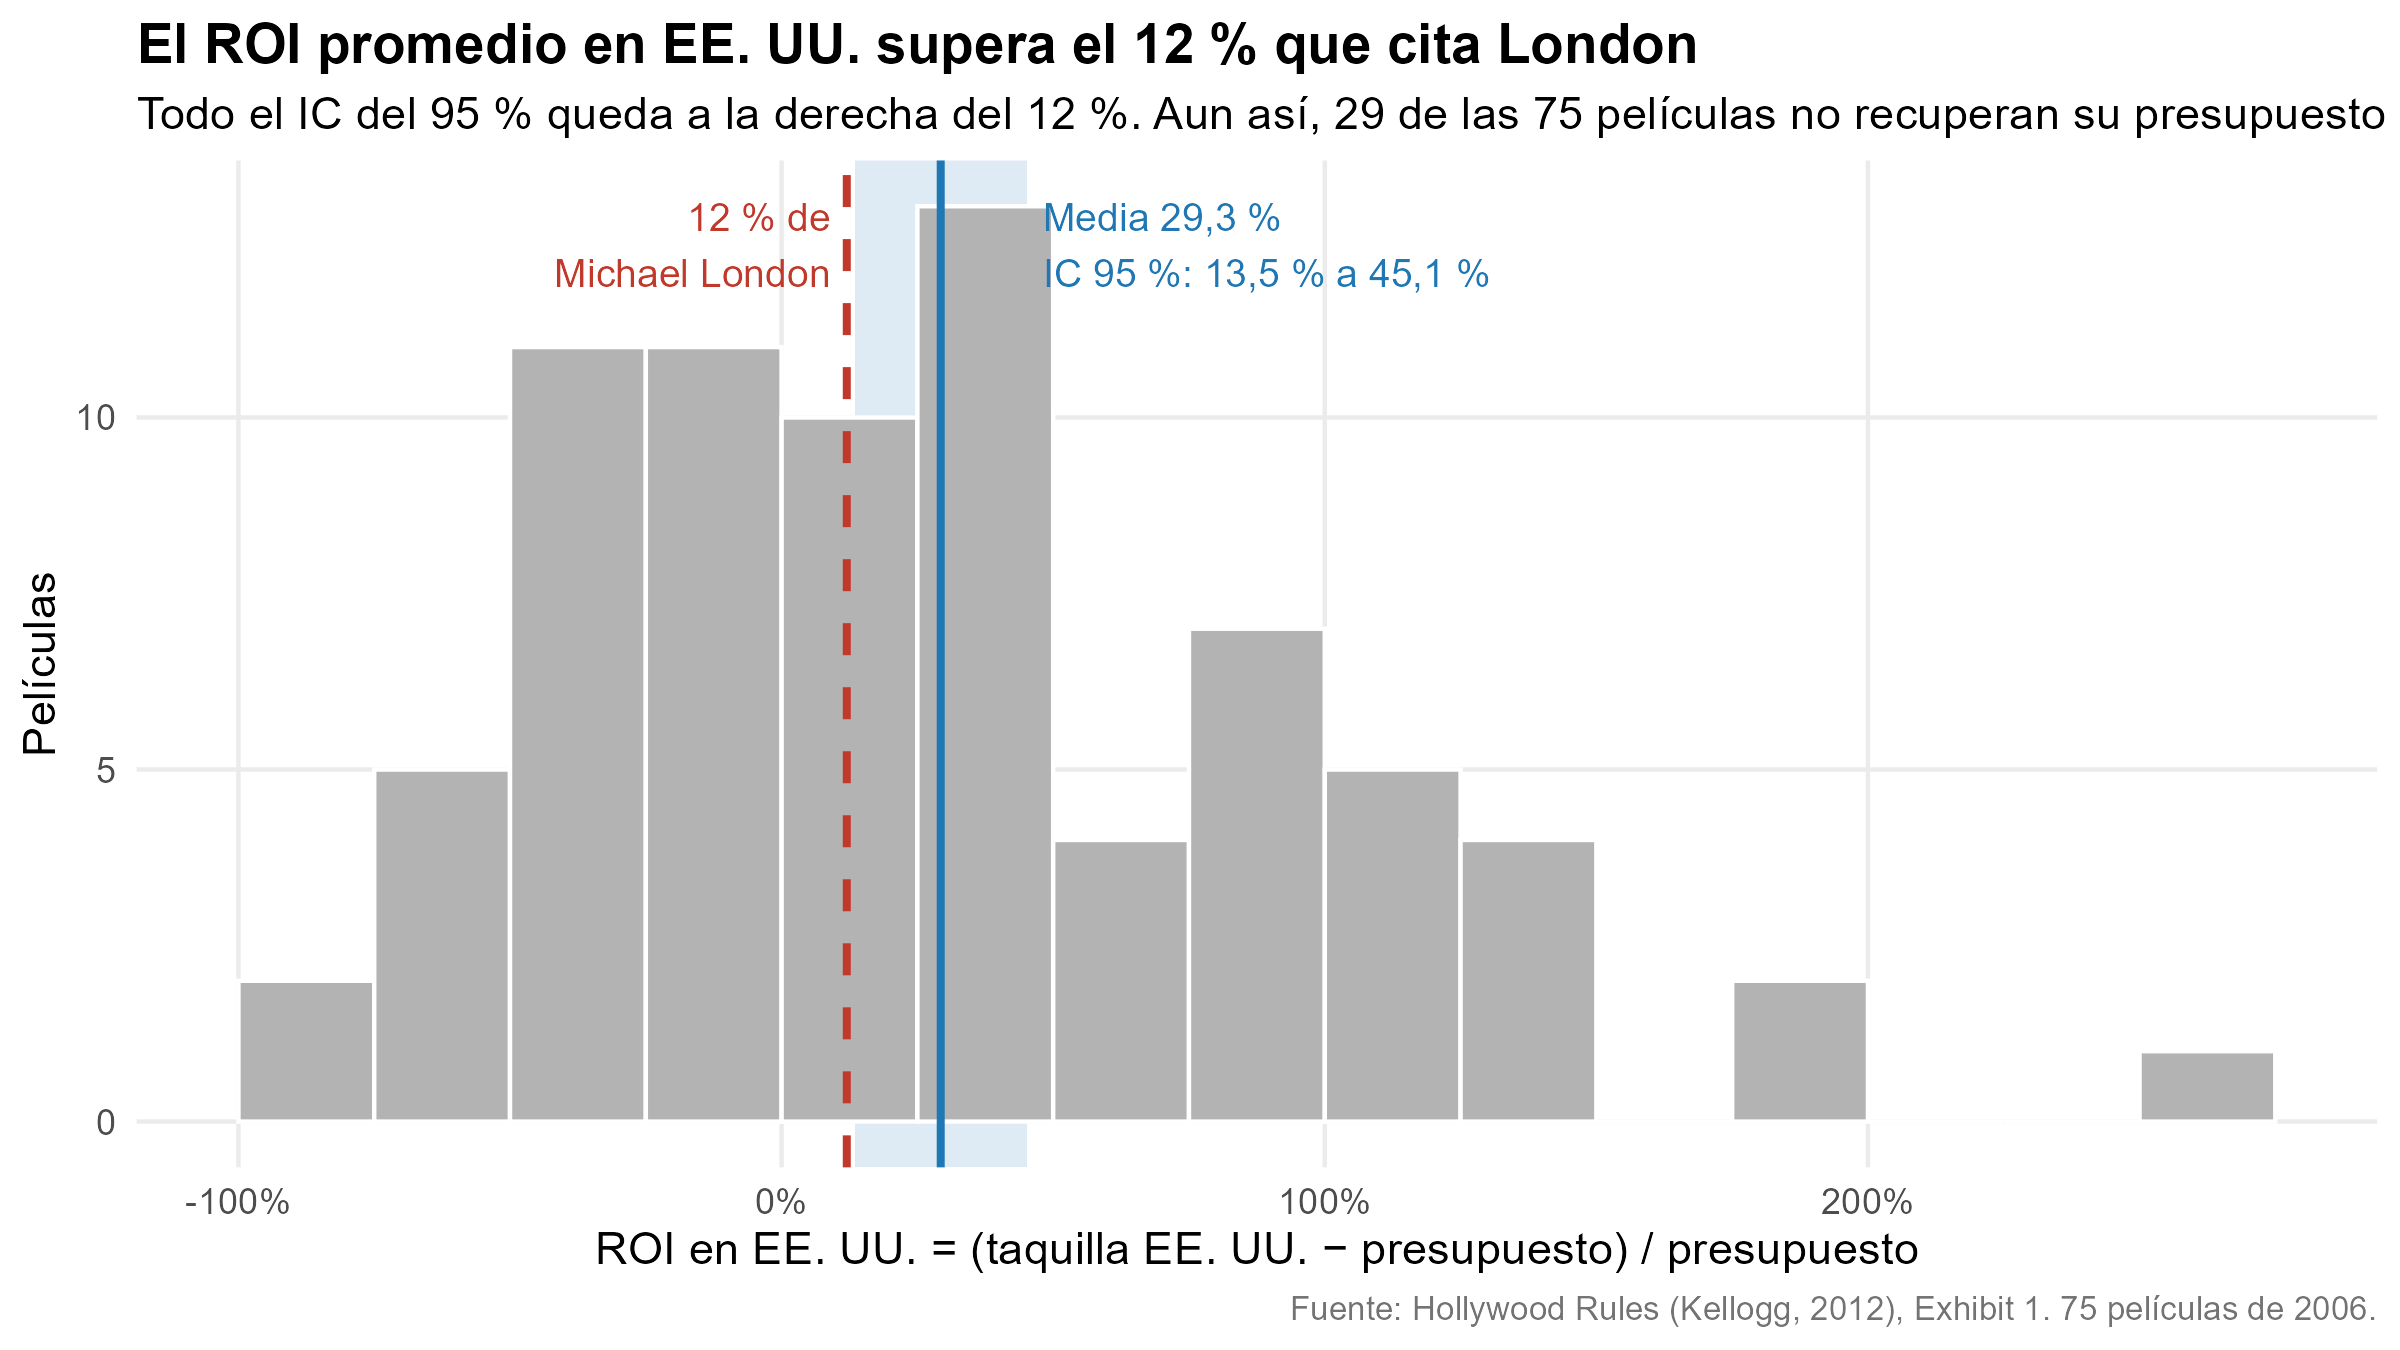
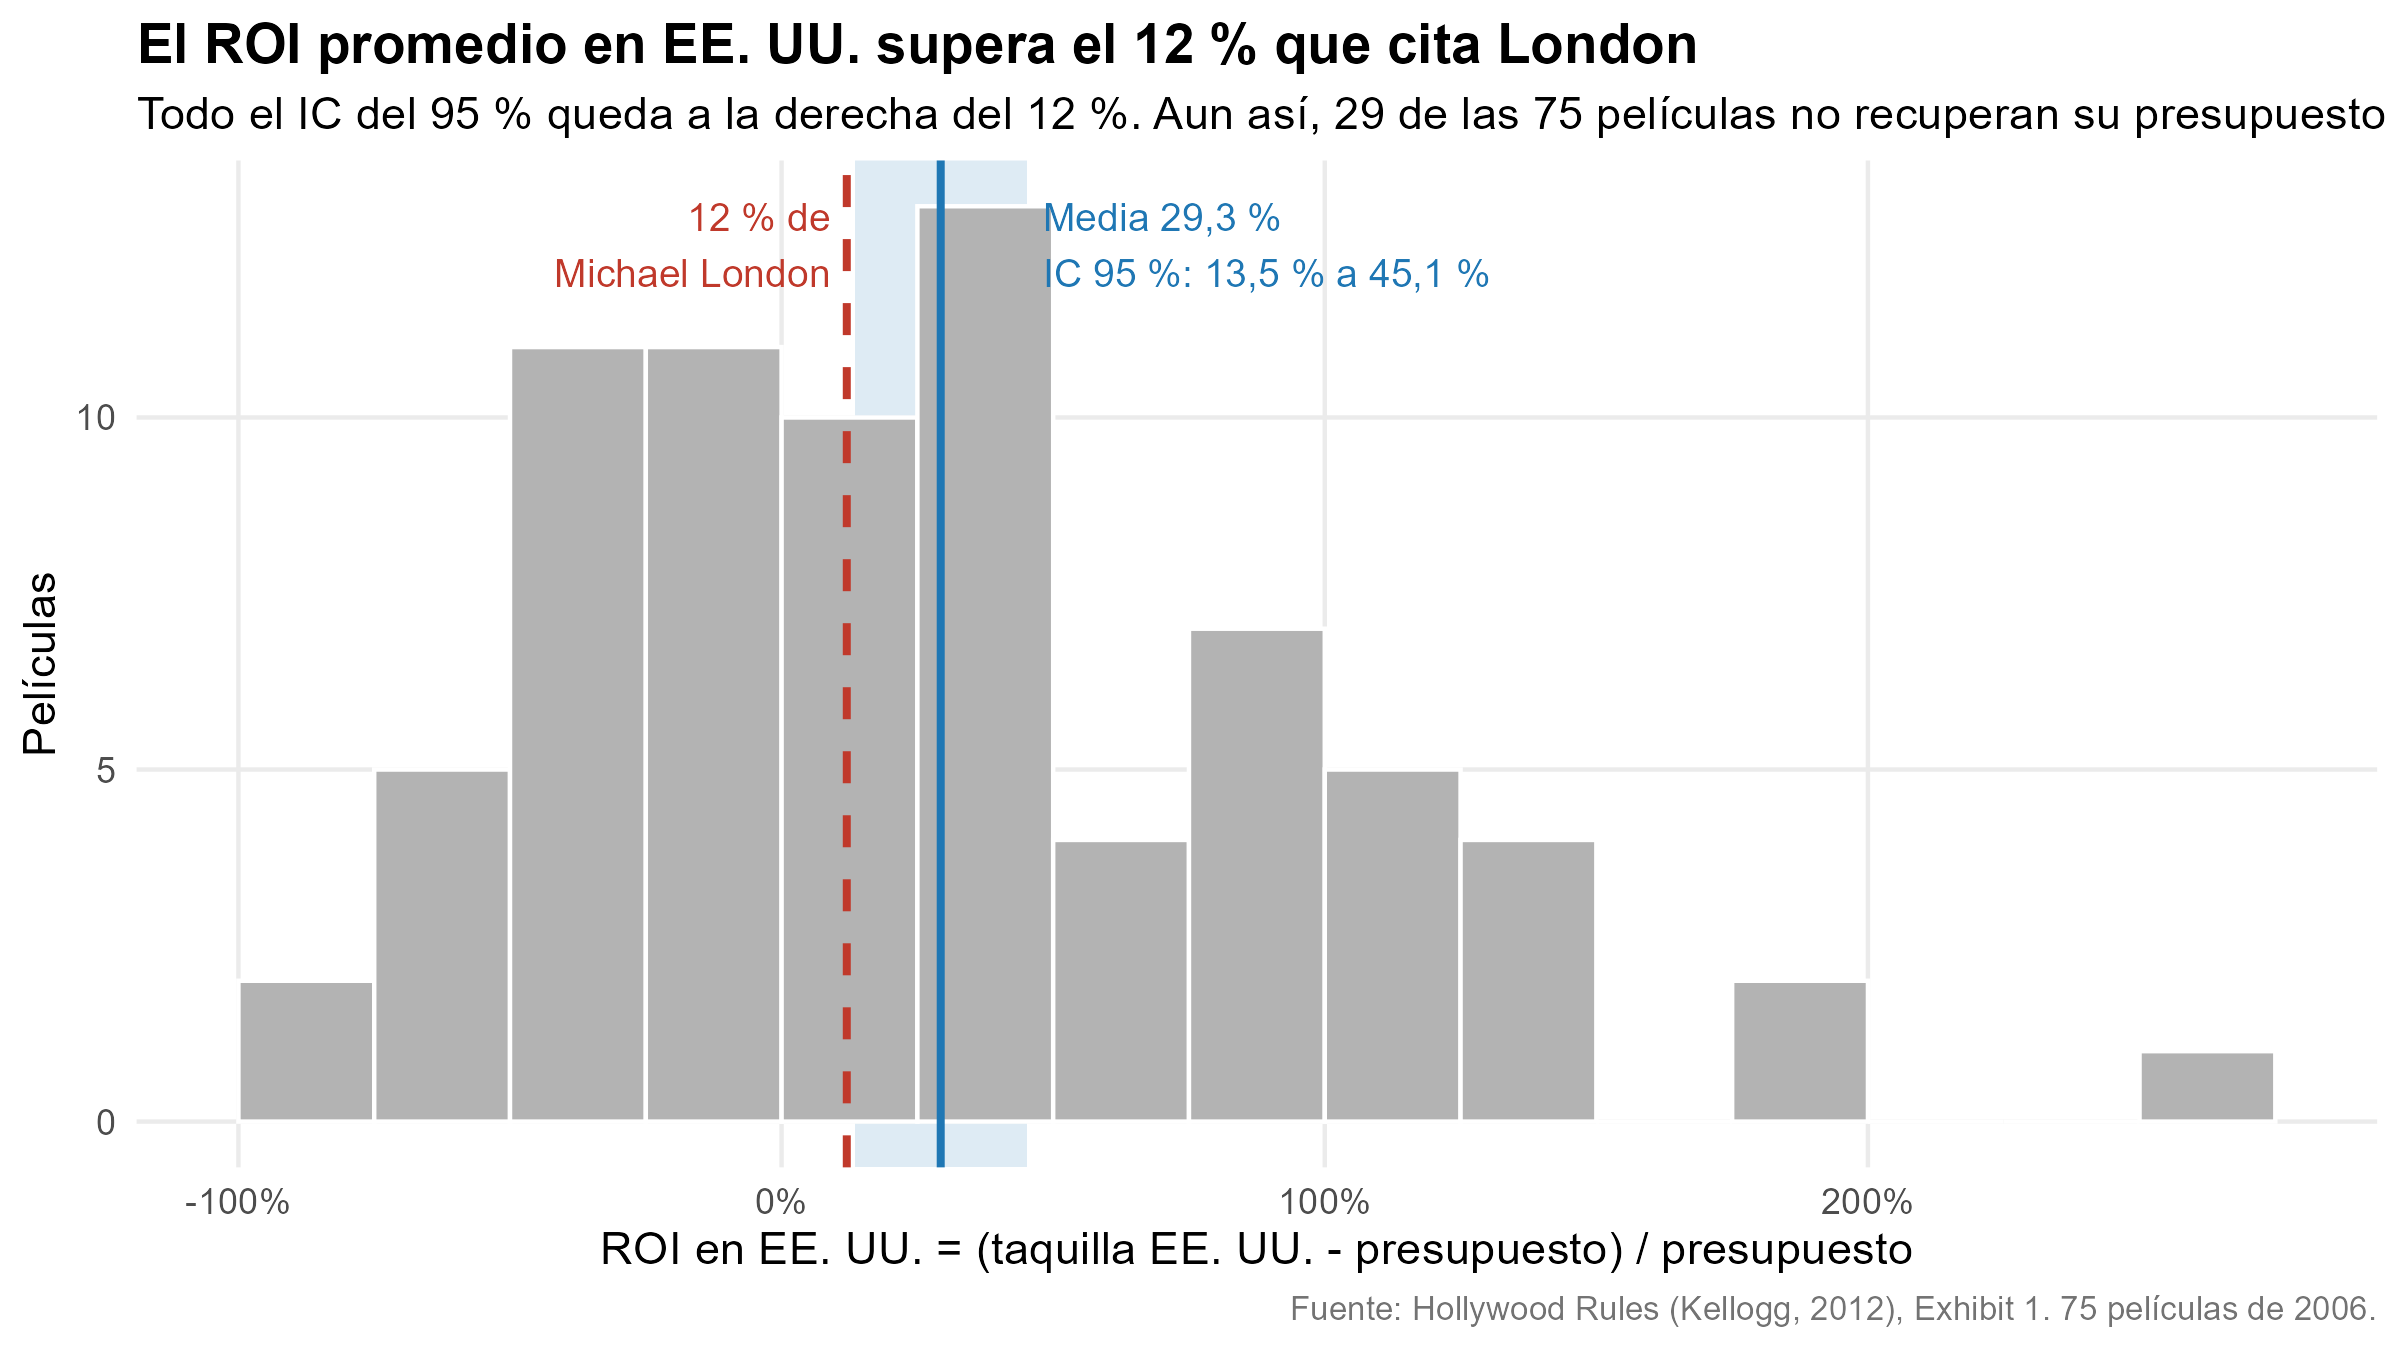
docs: simplificar README y comentarios

Changed region(s): [[0.4062, 0.9022, 0.8125, 0.9644], [0.25, 0.9022, 0.375, 0.9333]]

diff --git a/README.md b/README.md
@@ -1,110 +1,34 @@
-# Caso 2 — Hollywood Rules
+# Caso 2: Hollywood Rules
 
-Análisis del caso *Hollywood Rules* (Karl Schmedders, Charlotte Snyder y Ute
-Schaedel, Kellogg School of Management) para el curso **Analítica de los
-Negocios (BA-2630)**, Pontificia Universidad Javeriana, periodo 2026-3.
+Analítica de los Negocios (BA-2630), Pontificia Universidad Javeriana, 2026-3.
 Profesor: Juan Nicolás Velásquez Rey.
 
-## Equipo y reparto
+## Equipo
 
-| Integrante | Preguntas | Archivos |
-|---|---|---|
-| Maximo van Fulpen | 1 a 4 | `R/00_setup.R`, `R/01_descriptivos_y_pruebas.R`, `docs/respuestas-q01-q04.md` |
-| Helen Sofía Castiblanco | 5 a 7 + resumen ejecutivo | `R/02_regresiones_antes_del_estreno.R`, `docs/respuestas-q05-q07.md`, `docs/resumen-ejecutivo.md` |
-| Camilo Hernández | 8 a 10 | `R/03_despues_del_estreno.R`, `R/04_criticas_comedias_y_estrellas.R`, `docs/respuestas-q08-q10.md` |
+| Integrante | Preguntas |
+|---|---|
+| Maximo van Fulpen | 1 a 4 |
+| Helen Sofía Castiblanco | 5 a 7 y resumen ejecutivo |
+| Camilo Hernández | 8 a 10 |
 
-Cada integrante trabaja en archivos distintos, así que no hay conflictos de
-merge. El reparto sigue las cuatro partes del caso: *Set the Stage* y la prueba
-de comedias y películas R (Maximo), las regresiones antes de producir y antes
-del estreno (Sofía), y las regresiones después del estreno (Camilo).
+## Archivos
 
-## Entregable
+- `data/Hollywood.xls`: datos del caso
+- `R/00_setup.R`: carga de datos y funciones comunes
+- `R/01_descriptivos_y_pruebas.R`: preguntas 1 a 4
+- `R/02_regresiones_antes_del_estreno.R`: preguntas 5 a 7
+- `R/03_despues_del_estreno.R`: pregunta 8
+- `R/04_criticas_comedias_y_estrellas.R`: preguntas 9 y 10
+- `docs/`: resumen ejecutivo y respuestas
+- `output/`: gráficas y tablas
 
-**Parte 1 — Resumen ejecutivo** dirigido a Kim Meyer
-→ [`docs/resumen-ejecutivo.md`](docs/resumen-ejecutivo.md)
+## Cómo correrlo
 
-**Parte 2 — Respuestas numeradas** a las diez preguntas de la sección *Analysis*:
-
-- [`docs/respuestas-q01-q04.md`](docs/respuestas-q01-q04.md) — preguntas 1 a 4
-- [`docs/respuestas-q05-q07.md`](docs/respuestas-q05-q07.md) — preguntas 5 a 7
-- [`docs/respuestas-q08-q10.md`](docs/respuestas-q08-q10.md) — preguntas 8 a 10
-
-**Nota de uso de IA**, exigida por el syllabus
-→ [`docs/nota-ia.md`](docs/nota-ia.md)
-
-Los tres documentos en PDF quedan en `output/entrega/`.
-
-## Estructura
-
-```
-caso-02-hollywood-rules/
-├── data/
-│   └── Hollywood.xls                      datos del caso, hoja Exhibit 1
-├── R/
-│   ├── 00_setup.R                         carga, variables derivadas y funciones comunes
-│   ├── 01_descriptivos_y_pruebas.R        preguntas 1 a 4
-│   ├── 02_regresiones_antes_del_estreno.R preguntas 5 a 7
-│   ├── 03_despues_del_estreno.R           pregunta 8
-│   ├── 04_criticas_comedias_y_estrellas.R preguntas 9 y 10
-│   ├── 98_generar_documentos.R            markdown → Word → PDF
-│   └── 99_unir_respuestas.R               arma el documento único de la parte 2
-├── docs/                                  respuestas, resumen ejecutivo y nota de IA
-└── output/
-    ├── figures/                           gráficas en png
-    ├── tables/                            tablas en csv
-    └── entrega/                           los PDF que se entregan
-```
-
-## Cómo reproducir
-
-Requiere R 4.x con `tidyverse`, `readxl`, `scales`, `officer` y `flextable`, y
-Microsoft Word para el paso a PDF. Desde la raíz del repositorio:
+Desde la carpeta del repositorio, con R y los paquetes `tidyverse` y `readxl`:
 
 ```r
 source("R/01_descriptivos_y_pruebas.R")
 source("R/02_regresiones_antes_del_estreno.R")
 source("R/03_despues_del_estreno.R")
 source("R/04_criticas_comedias_y_estrellas.R")
-source("R/99_unir_respuestas.R")
-source("R/98_generar_documentos.R")
 ```
-
-Cada script de análisis hace `source("R/00_setup.R")` por su cuenta, así que se
-pueden correr en cualquier orden.
-
-## Decisiones de método
-
-- **Pruebas de dos grupos:** t de Welch, que no supone varianzas iguales. La
-  versión con varianza combinada se reporta como control y no cambia ninguna
-  conclusión.
-- **Selección de variables:** eliminación hacia atrás al 10 %, quitando una
-  variable a la vez (la de mayor p-valor) y reestimando
-  (`eliminacion_atras()` en `R/00_setup.R`).
-- **Pregunta 7:** la regresión simple tiene heterocedasticidad, así que el
-  modelo sólido es log-log. La regla del 25 % se evalúa con la prueba conjunta
-  de pendiente 1 e intercepto ln(4), y con el multiplicador estimado imponiendo
-  pendiente 1.
-- **Pregunta 8:** no entran los Oscar ni la taquilla internacional, porque no se
-  conocen después del fin de semana de estreno.
-
-## Hallazgos principales
-
-- ROI medio en EE. UU. de **29,3 %** (IC 95 % de 13,5 % a 45,1 %), mayor que el
-  12 % de la industria (p = 0,016). Pero 29 de las 75 películas no recuperan su
-  presupuesto en EE. UU.
-- Las comedias no recaudan más (p = 0,18) pero sí rinden más por dólar: ROI de
-  54 % contra 18 % (p = 0,047). Las películas R no rinden mejor (p = 0,40).
-- Antes de producir pesan presupuesto, secuela (+31,7 millones) y comedia. Para
-  el estreno pesan presupuesto, secuela y salas (+0,77 millones por cada 100
-  salas). Las fechas de estreno no son significativas.
-- El estreno es el **30,4 %** de la taquilla total (IC 95 % de 28,2 % a 32,8 %),
-  no el 25 % de la regla.
-- Con estreno y crítica el modelo explica el 83 % de la taquilla. Cada punto de
-  crítica vale 591 mil dólares. No hay evidencia de que la crítica pese menos en
-  las comedias (p = 0,22).
-
-## Nota sobre los datos
-
-`data/Hollywood.xls` es material del caso, © 2012 Kellogg School of Management,
-Northwestern University. Se incluye únicamente para poder reproducir el análisis
-del curso.

diff --git a/docs/respuestas-q01-q04.md b/docs/respuestas-q01-q04.md
@@ -1,8 +1,9 @@
-# Caso 2 — Hollywood Rules
+# Caso 2: Hollywood Rules
 ## Parte 2, primera sección. Respuestas a las preguntas 1 a 4
 
-**Curso:** Analítica de los Negocios (BA-2630) · **Profesor:** Juan Nicolás Velásquez Rey
-**Equipo:** Maximo van Fulpen · Helen Sofía Castiblanco · Camilo Hernández
+**Curso:** Analítica de los Negocios (BA-2630)
+**Profesor:** Juan Nicolás Velásquez Rey
+**Equipo:** Maximo van Fulpen, Helen Sofía Castiblanco, Camilo Hernández
 **Autor de esta sección:** Maximo van Fulpen
 **Fecha:** 7 de octubre de 2026
 
@@ -11,11 +12,7 @@ derivadas (la dummy de comedia y el ROI) están en `R/00_setup.R`. Los datos son
 las 75 películas de 2006 con presupuesto conocido entre USD 20 y 100 millones,
 sin datos faltantes.
 
----
-
 ## 1) Panorama inicial de los datos
-
-`output/tables/q1_min_promedio_max.csv` · `output/tables/q1_extremos.csv`
 
 | Variable | Mínimo | Promedio | Máximo |
 |---|---|---|---|
@@ -33,24 +30,22 @@ La taquilla internacional promedia lo mismo que la de EE. UU. (59,6 millones
 contra 59,6 millones) pero su máximo es más del doble. Es la fuente de ingresos
 más dispersa, lo que coincide con lo que dice el caso de *Troy* o *Alexander*.
 
-**En los datos hay 23 comedias y 15 películas calificadas R.** La comedia es el
+En los datos hay 23 comedias y 15 películas calificadas R. La comedia es el
 género más frecuente, seguida del drama con 19. La clasificación más común es
 PG-13 con 37 películas.
 
 ## 2) ¿Rinde el negocio un 12 % al año?
 
-`output/tables/q2a_roi_por_pelicula.csv` · `output/tables/q2_ic_y_prueba_roi.csv`
-
 **a.** El ROI en EE. UU. de cada película se calculó como
-(taquilla total EE. UU. − presupuesto) / presupuesto. La tabla completa está en
+(taquilla total EE. UU. - presupuesto) / presupuesto. La tabla completa está en
 `q2a_roi_por_pelicula.csv`. El mejor es *The Devil Wears Prada* con 256 %, y el
-peor *Arthur and the Invisibles* con −82 %.
+peor *Arthur and the Invisibles* con -82 %.
 
-**b.** El ROI medio es **29,3 %** con desviación estándar de 68,7 %. Como la
+**b.** El ROI medio es 29,3 % con desviación estándar de 68,7 %. Como la
 desviación poblacional no se conoce, el intervalo usa la t de Student con 74
 grados de libertad:
 
-**IC del 95 % para el ROI medio: de 13,5 % a 45,1 %.**
+IC del 95 % para el ROI medio: de 13,5 % a 45,1 %.
 
 **c.** Se plantea una prueba de una cola, porque lo que se quiere mostrar es que
 el ROI supera el 12 %:
@@ -58,13 +53,13 @@ el ROI supera el 12 %:
 - H0: μ ≤ 0,12
 - H1: μ > 0,12
 
-t = (0,2929 − 0,12) / 0,0794 = **2,18**, con p = **0,016**. Se rechaza H0 al 5 %:
+t = (0,2929 - 0,12) / 0,0794 = 2,18, con p = 0,016. Se rechaza H0 al 5 %:
 el ROI medio en EE. UU. es significativamente mayor que el 12 % de Michael London.
 Lo confirma el intervalo de la parte (b), que deja el 12 % por fuera.
 
 Dos advertencias para Meyer. Primero, la mediana es 16,7 %, bastante menor que la
-media, porque unos pocos éxitos jalan el promedio. Segundo, **29 de las 75
-películas no recuperan su presupuesto solo con la taquilla de EE. UU.** El
+media, porque unos pocos éxitos jalan el promedio. Segundo, 29 de las 75
+películas no recuperan su presupuesto solo con la taquilla de EE. UU. El
 rendimiento promedio es bueno, pero se gana con un portafolio, no con una
 película. Es justamente el argumento de los *slate financing deals*. Además el
 ROI ignora la publicidad, que según el caso promedia USD 34,5 millones, y el
@@ -74,8 +69,6 @@ reparto de la taquilla con los exhibidores, así que sobrestima el retorno real.
 
 ## 3) Comedias contra el resto de géneros
 
-`output/tables/q3_comedia_vs_resto.csv`
-
 Se usó la prueba t de Welch para dos muestras independientes, que no supone
 varianzas iguales. La versión con varianza combinada lleva a las mismas
 conclusiones (está en la tabla).
@@ -84,16 +77,16 @@ conclusiones (está en la tabla).
 |---|---|---|---|---|
 | Taquilla EE. UU. (USD M) | 68,7 | 55,6 | 13,2 | 0,176 |
 | ROI EE. UU. | 54,0 % | 18,4 % | 35,7 pp | 0,047 |
-| Presupuesto (USD M) | 47,1 | 50,2 | −3,1 | 0,592 |
+| Presupuesto (USD M) | 47,1 | 50,2 | -3,1 | 0,592 |
 
 **a.** H0: la taquilla media de las comedias es igual a la del resto. Las
-comedias recaudan en promedio 13,2 millones más, pero con p = 0,176 **no se puede
-rechazar H0**. El intervalo del 95 % para la diferencia va de −6,1 a 32,4
+comedias recaudan en promedio 13,2 millones más, pero con p = 0,176 no se puede
+rechazar H0. El intervalo del 95 % para la diferencia va de -6,1 a 32,4
 millones e incluye el cero. No hay evidencia de que la comedia recaude distinto.
 
 **b.** En ROI la historia cambia. Las comedias rinden 54,0 % contra 18,4 % del
-resto, una diferencia de 35,7 puntos porcentuales con p = 0,047. **La diferencia
-es significativa al 5 %** (no al 1 %). El intervalo del 95 % va de 0,4 a 70,9
+resto, una diferencia de 35,7 puntos porcentuales con p = 0,047. La diferencia
+es significativa al 5 % (no al 1 %). El intervalo del 95 % va de 0,4 a 70,9
 puntos.
 
 La sospecha de Griffith era que el mayor ingreso venía con una mayor inversión.
@@ -108,13 +101,11 @@ variable relevante es el ROI, y ahí la comedia sale ganando.
 
 ## 4) Películas R contra el resto
 
-`output/tables/q4_r_vs_resto.csv`
-
 **a.** H0: la taquilla media de las películas R es igual a la del resto.
 
 Las 15 películas R recaudan en promedio 53,3 millones en EE. UU. y las 60 de
-otras clasificaciones 61,2 millones. La diferencia de −7,9 millones tiene
-p = 0,398 (t de Welch), así que **no se rechaza H0**. Tampoco hay diferencia en
+otras clasificaciones 61,2 millones. La diferencia de -7,9 millones tiene
+p = 0,398 (t de Welch), así que no se rechaza H0. Tampoco hay diferencia en
 ROI (20,9 % contra 31,4 %, p = 0,57).
 
 La creencia de que las R rinden mejor no se sostiene. Si algo, el signo va al
